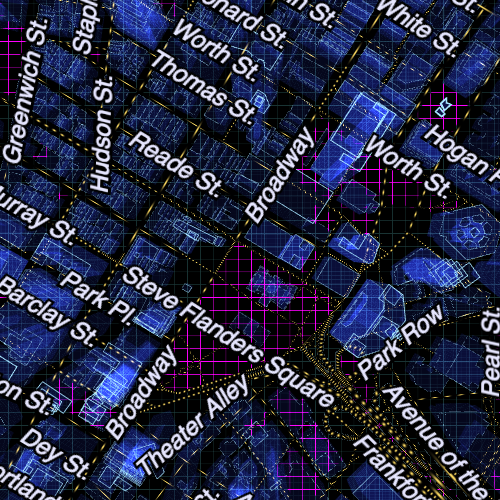
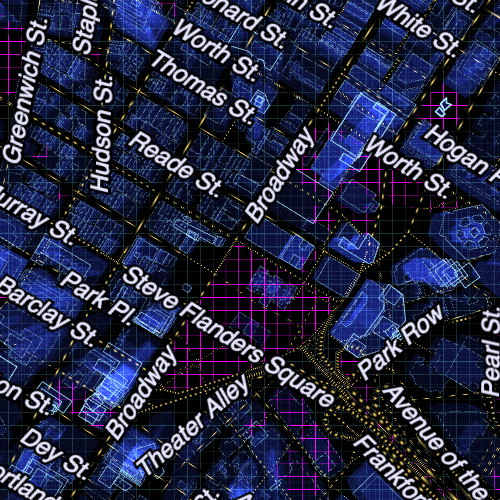
turn off style animation

diff --git a/main.js b/main.js
@@ -36,7 +36,6 @@ readTextFile(testFile, function(text){
 
 // setup divs and canvases
 var prep = new Promise( function (resolve, reject) {
-    console.log('prep');
     // set sizes
     document.getElementById("map").style.height = size+"px";
     document.getElementById("map").style.width = size+"px";
@@ -103,7 +102,7 @@ var prep = new Promise( function (resolve, reject) {
         // setView expects format ([lat, long], zoom)
         map.setView(map_start_location.slice(0, 3), map_start_location[2]);
 
-        var hash = new L.Hash(map);
+        // var hash = new L.Hash(map);
 
         layer.addTo(map);
         
@@ -113,7 +112,6 @@ var prep = new Promise( function (resolve, reject) {
 
     resolve();
 });
-    console.log('map:', map);
 
 
 // load an image asynchronously with a Promise
@@ -196,16 +194,12 @@ function nextView () {
     v++;
     if (v < views.length) {
         var view = views[v];
-        if (scene.config_path !== view.url) {
-            scene.load(view.url).then(function() {
-                map.setView([view.location[0], view.location[1]], view.location[2]);
-                scene.requestRedraw();
-            });
-        }
-        else {
+        // if (scene.config_path !== view.url) {
+        scene.load(view.url).then(function() {
             map.setView([view.location[0], view.location[1]], view.location[2]);
+            scene.animated = false;
             scene.requestRedraw();
-        }
+        });
     }
 }
 
@@ -215,15 +209,14 @@ scene.subscribe({
         if (v < 0) { nextView(); }
         // then load the first test case
         else {
-            // when prep is done, screenshot is made, and oldimg is loaded...
-            Promise.all([prep,screenshot(),loadOld(views[v].name+'.png')]).then(function() {
-                // perform the diff
-                doDiff();
-                // if more to do, do the next
-                if (v < views.length) {
+            if (v < views.length) {
+                // when prep is done, screenshot is made, and oldimg is loaded...
+                Promise.all([prep,screenshot(),loadOld(views[v].name+'.png')]).then(function() {
+                    // perform the diff
+                    doDiff();
                     nextView();
-                }
-            });
+                });
+            }
         }
     }
 });
